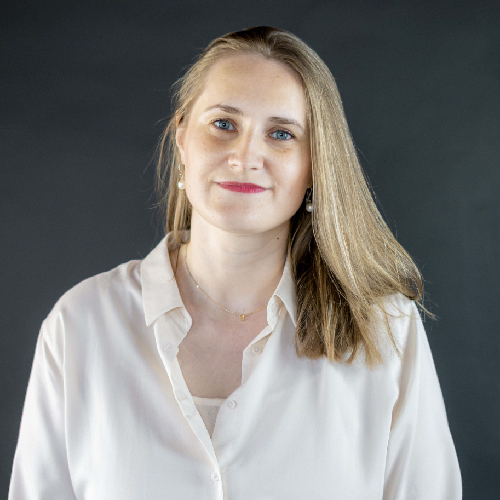
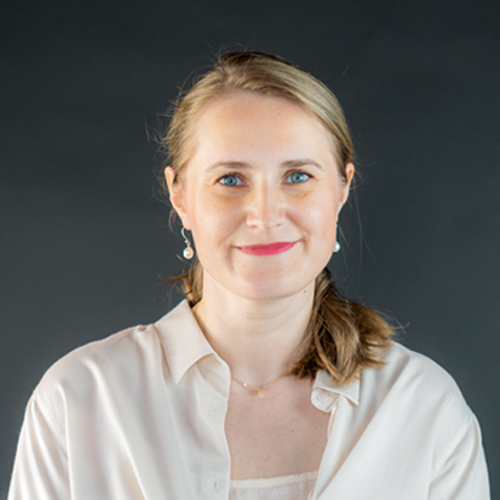
Update natasha image & remove kamini

diff --git a/pages/2-1-2-team.php b/pages/2-1-2-team.php
@@ -295,20 +295,21 @@
           </div>
         </li>
         <li class="template-layout-column-center-left">
-          <div class="template-component-image template-component-image-hover-slide-enable template-fancybox template-preloader">
-            <img src="../media/people/kamini-surendhar-dreamspace.jpg" alt="DreamSpace Academy" />
+
+        <div class="template-component-image template-component-image-hover-slide-enable template-fancybox template-preloader">
+            <img src="../media/people/sajeev-punithakaran-dreamspace.jpg" alt="DreamSpace Academy" />
             <div>
-              <h6>Kamini Surendhar</h6>
+              <h6>Sajeev Punithakaran</h6>
               </br>
-              <span>Guardian of</span>
-              <span>Business Development</span>
+              <span>-</span>
+              </br>
             </div>
             <div class="template-component-social-icon template-component-social-icon-style-1 template-clear-fix">
               <ul>
-                <li><a target="_blank" href="https://www.linkedin.com/in/kamini-v-3b3785182/">
+                <li><a target="_blank" href="https://www.linkedin.com/in/sajeev-punithakaran-064b811b9">
                     <i class="fab fa-linkedin-in fa-lg" style="color: white; padding-top: 17px;"></i>
                   </a></li>
-                <li><a target="_blank" href="https://www.linkedin.com/in/kamini-v-3b3785182/">
+                <li><a target="_blank" href="https://sajeev-07.github.io/sajeevgithub.io/index.html">
                     <i class="fas fa-link fa-lg" style="color: white; padding-top: 17px;"></i>
                   </a></li>
               </ul>
@@ -450,20 +451,20 @@
         </li>
         <li class="template-layout-column-left">
 
-          <div class="template-component-image template-component-image-hover-slide-enable template-fancybox template-preloader">
-            <img src="../media/people/sajeev-punithakaran-dreamspace.jpg" alt="DreamSpace Academy" />
+        <div class="template-component-image template-component-image-hover-slide-enable template-fancybox template-preloader">
+            <img src="../media/people/ezri-sheshan-ragunathen-dreamspace.jpg" alt="DreamSpace Academy" />
             <div>
-              <h6>Sajeev Punithakaran</h6>
+              <h6>Ezri Sheshan Ragunathen</h6>
               </br>
               <span>-</span>
               </br>
             </div>
             <div class="template-component-social-icon template-component-social-icon-style-1 template-clear-fix">
               <ul>
-                <li><a target="_blank" href="https://www.linkedin.com/in/sajeev-punithakaran-064b811b9">
+                <li><a target="_blank" href="#">
                     <i class="fab fa-linkedin-in fa-lg" style="color: white; padding-top: 17px;"></i>
                   </a></li>
-                <li><a target="_blank" href="https://sajeev-07.github.io/sajeevgithub.io/index.html">
+                <li><a target="_blank" href="#">
                     <i class="fas fa-link fa-lg" style="color: white; padding-top: 17px;"></i>
                   </a></li>
               </ul>
@@ -606,29 +607,7 @@
         </li>
         <li class="template-layout-column-right">
 
-          <div class="template-component-image template-component-image-hover-slide-enable template-fancybox template-preloader">
-            <img src="../media/people/ezri-sheshan-ragunathen-dreamspace.jpg" alt="DreamSpace Academy" />
-            <div>
-              <h6>Ezri Sheshan Ragunathen</h6>
-              </br>
-              <span>-</span>
-              </br>
-            </div>
-            <div class="template-component-social-icon template-component-social-icon-style-1 template-clear-fix">
-              <ul>
-                <li><a target="_blank" href="#">
-                    <i class="fab fa-linkedin-in fa-lg" style="color: white; padding-top: 17px;"></i>
-                  </a></li>
-                <li><a target="_blank" href="#">
-                    <i class="fas fa-link fa-lg" style="color: white; padding-top: 17px;"></i>
-                  </a></li>
-              </ul>
-            </div>
-          </div>
-        </li>
-        <li class="template-layout-column-left">
-
-          <div class="template-component-image template-component-image-hover-slide-enable template-fancybox template-preloader">
+        <div class="template-component-image template-component-image-hover-slide-enable template-fancybox template-preloader">
             <img src="../media/people/yugasoummy-karunakaran-dreamspace.jpg" alt="DreamSpace Academy" />
             <div>
               <h6>Yugasoummy Karunakaran</h6>
@@ -640,6 +619,27 @@
             <div class="template-component-social-icon template-component-social-icon-style-1 template-clear-fix">
               <ul>
                 <li><a target="_blank" href="https://www.linkedin.com/in/yuga-karuna-4b6463230">
+                    <i class="fab fa-linkedin-in fa-lg" style="color: white; padding-top: 17px;"></i>
+                  </a></li>
+                <li><a target="_blank" href="#">
+                    <i class="fas fa-link fa-lg" style="color: white; padding-top: 17px;"></i>
+                  </a></li>
+              </ul>
+            </div>
+          </div>
+        </li>
+        <li class="template-layout-column-left">
+        <div class="template-component-image template-component-image-hover-slide-enable template-fancybox template-preloader">
+            <img src="../media/people/kabithanjan-athisdanathan-dreamspace.jpg" alt="DreamSpace Academy" />
+            <div>
+              <h6>Kabithanjan Athisdanathan</h6>
+              </br>
+              </br>
+              <span>-</span>
+            </div>
+            <div class="template-component-social-icon template-component-social-icon-style-1 template-clear-fix">
+              <ul>
+                <li><a target="_blank" href="#">
                     <i class="fab fa-linkedin-in fa-lg" style="color: white; padding-top: 17px;"></i>
                   </a></li>
                 <li><a target="_blank" href="#">
@@ -760,29 +760,6 @@
             </div>
           </div>
         </li>
-        <li class="template-layout-column-center-right">
-
-          <div class="template-component-image template-component-image-hover-slide-enable template-fancybox template-preloader">
-            <img src="../media/people/kabithanjan-athisdanathan-dreamspace.jpg" alt="DreamSpace Academy" />
-            <div>
-              <h6>Kabithanjan Athisdanathan</h6>
-              </br>
-              </br>
-              <span>-</span>
-            </div>
-            <div class="template-component-social-icon template-component-social-icon-style-1 template-clear-fix">
-              <ul>
-                <li><a target="_blank" href="#">
-                    <i class="fab fa-linkedin-in fa-lg" style="color: white; padding-top: 17px;"></i>
-                  </a></li>
-                <li><a target="_blank" href="#">
-                    <i class="fas fa-link fa-lg" style="color: white; padding-top: 17px;"></i>
-                  </a></li>
-              </ul>
-            </div>
-          </div>
-        </li>
-        
       </ul>
     </div>
   </div>
